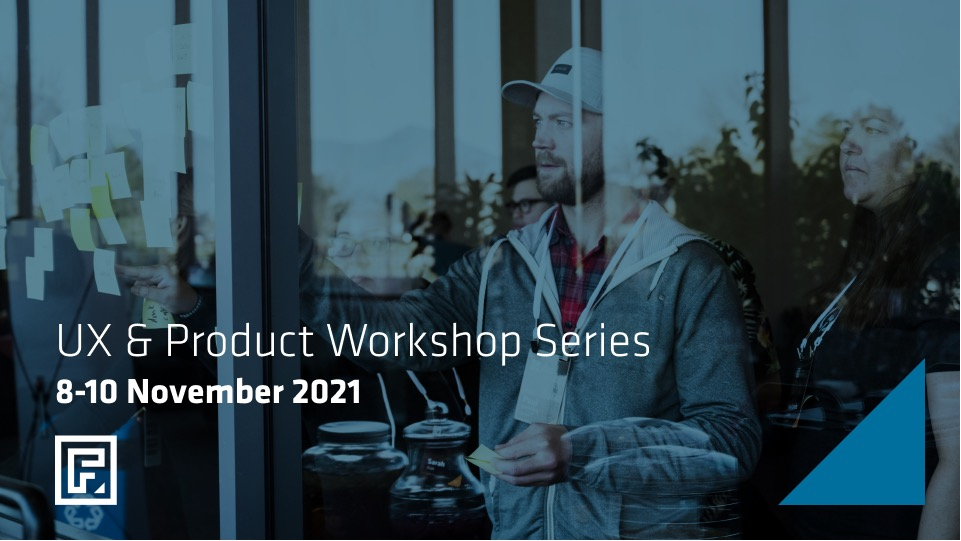
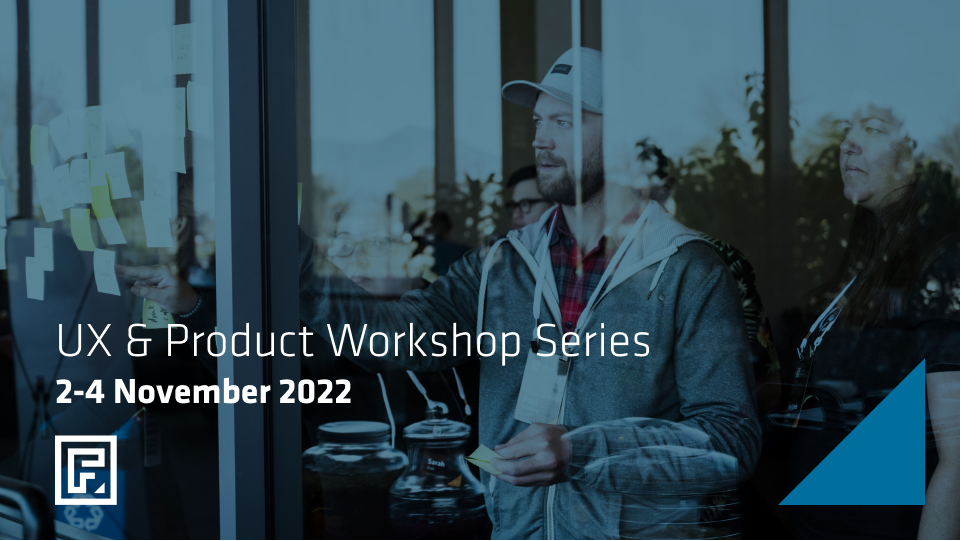
Updated social cards and width of instructors page

Changed region(s): [[0.0624, 0.6802, 0.3746, 0.7689], [0.9053, 0.9168, 0.9677, 0.9464], [0.8117, 0.9168, 0.8741, 0.9464]]

diff --git a/styles/style.css b/styles/style.css
@@ -1717,8 +1717,8 @@ section.instructor-preview h2 {
 }
 
 @media (min-width:1000px) {
-	section.instructor-preview {
-		padding: 70px 100px
+	section.instructor-preview, section.instructors {
+		padding: 70px 180px
 	}
 
 	section.instructor-preview h2 {
